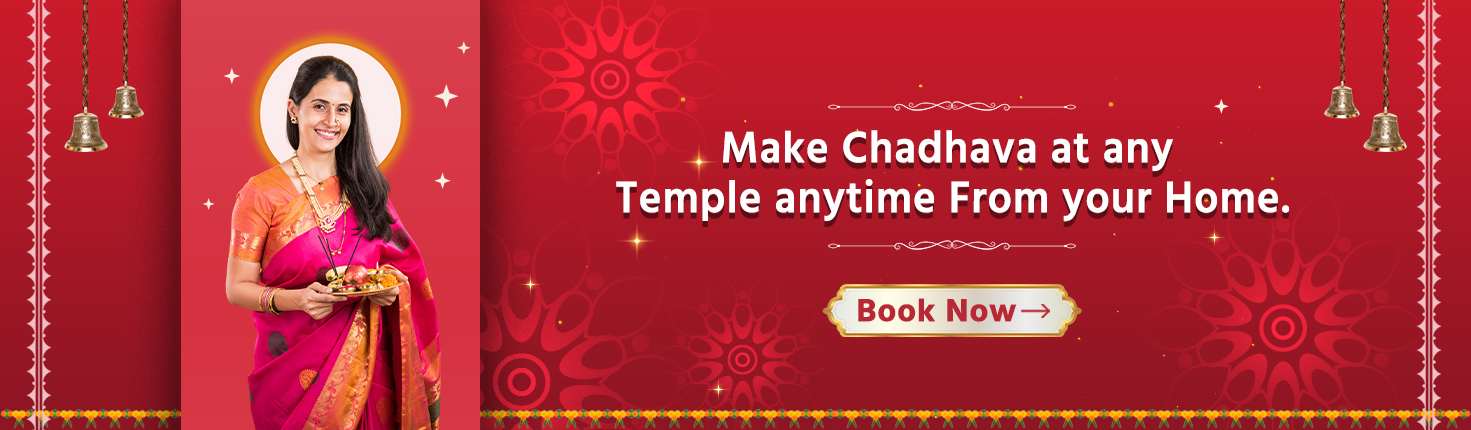
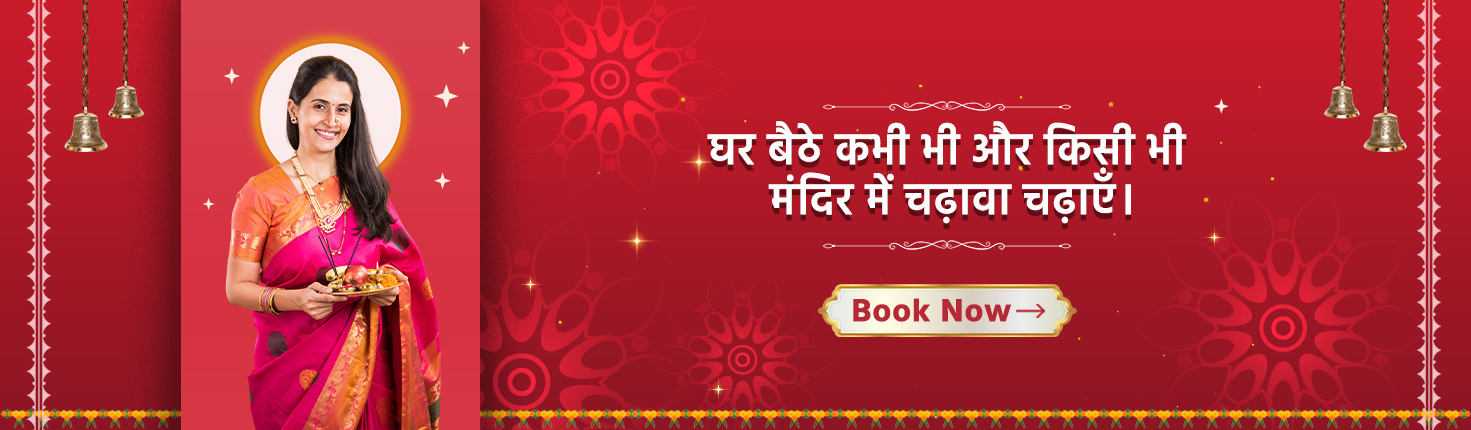
new

diff --git a/src/app/chadhavadetail/ProceedForm.js b/src/app/chadhavadetail/ProceedForm.js
@@ -4,20 +4,33 @@ import api from "../lib/axiosInstance";
 import toast, { Toaster } from "react-hot-toast";
 import { useRouter } from "next/navigation";
 import { useTranslation } from "react-i18next";
+import LoadingScreen from "../component/LoadingScreen";
 
 const ProceedForm = ({ handleClose, carts,totalPrice, id }) => {
   const { t } = useTranslation();
-  const [formData, setFormData] = useState({ name: "", gotra: "" });
+  const [formData, setFormData] = useState({ name: typeof window !== "undefined" ? localStorage.getItem("userName") || "" : "", gotra: "" });
   const [errors, setErrors] = useState({});
   const [isChecked, setIsChecked] = useState(false);
   const router = useRouter(); // Initialize useRouter
     const [loading, setLoading] = useState(false);
-  const handleChange = (e) => {
-    setFormData({ ...formData, [e.target.name]: e.target.value });
 
-    // Clear error when user types
-    setErrors({ ...errors, [e.target.name]: "" });
-  };
+
+    const handleChange = (e) => {
+      const { name, value } = e.target;
+      setFormData((prev) => {
+        const newFormData = { ...prev, [name]: value };
+    
+        // Save to localStorage
+        if (typeof window !== "undefined") {
+          localStorage.setItem(`user${name.charAt(0).toUpperCase() + name.slice(1)}`, value);
+        }
+    
+        return newFormData;
+      });
+    
+      // Clear error when user types
+      setErrors((prevErrors) => ({ ...prevErrors, [name]: "" }));
+    };
 
   const handleCheckboxChange = () => {
     setIsChecked(!isChecked);
@@ -166,6 +179,9 @@ const ProceedForm = ({ handleClose, carts,totalPrice, id }) => {
 
   return (
     <div className="fixed inset-0 bg-black bg-opacity-50 flex justify-center items-center px-4 overflow-hidden">
+{loading && (
+  <LoadingScreen/>
+)}
 
         <Toaster position="top-right" reverseOrder={false} />
     <div className="bg-orange-50 border border-orange-600 relative p-8 md:p-10 rounded-2xl shadow-lg w-full max-w-lg md:max-w-2xl">
@@ -192,6 +208,7 @@ const ProceedForm = ({ handleClose, carts,totalPrice, id }) => {
             onChange={(e) => {
               if (/^[A-Za-z\s]*$/.test(e.target.value)) {
                 setFormData({ ...formData, name: e.target.value });
+                handleChange(e); 
                 setErrors({ ...errors, name: "" });
               }
             }}
@@ -234,11 +251,30 @@ const ProceedForm = ({ handleClose, carts,totalPrice, id }) => {
         {/* Buttons */}
         <div className="flex flex-wrap justify-center gap-4">
         <button
-  className="w-full px-8 sm:px-10 py-2 text-lg bg-orange-500 text-white rounded-full"
+  className="w-full px-8 sm:px-10 py-2 text-lg bg-orange-500 text-white rounded-full flex items-center justify-center"
   onClick={onSubmit}
+  disabled={loading}
 >
-{t("SubmitPay")}
- 
+  {loading ? (
+    <svg className="animate-spin h-5 w-5 mr-2 text-white" viewBox="0 0 24 24">
+      <circle
+        className="opacity-25"
+        cx="12"
+        cy="12"
+        r="10"
+        stroke="currentColor"
+        strokeWidth="4"
+        fill="none"
+      ></circle>
+      <path
+        className="opacity-75"
+        fill="currentColor"
+        d="M4 12a8 8 0 018-8v8H4z"
+      ></path>
+    </svg>
+  ) : (
+    t("SubmitPay")
+  )}
 </button>
 
         </div>

diff --git a/src/app/cartpaymentpoojabox/Payment.js b/src/app/cartpaymentpoojabox/Payment.js
@@ -9,6 +9,7 @@ import { CheckIcon } from "lucide-react";
 import { load } from "@cashfreepayments/cashfree-js";
 import { useRouter, useSearchParams } from "next/navigation";
 import { useTranslation } from "react-i18next";
+import LoadingScreen from "../component/LoadingScreen";
 export const dynamic = "force-dynamic"; // Ensures it's rendered on the server
 const Payment = () => {
   const { t } = useTranslation();
@@ -17,6 +18,7 @@ const Payment = () => {
   const router = useRouter(); 
   const searchParams = useSearchParams();
   const addressId = searchParams.get("addressId");
+  const [loading, setLoading] = useState(false);
   useEffect(() => {
     fetchPujaData();
   }, []);
@@ -136,6 +138,7 @@ const updateCartQuantity = async (productId, change) => {
   };
   
   const handlePayment = async () => {
+    setLoading(true);
     if (!subtotal) {
       toast.error("Your cart is empty!");
       return;
@@ -234,6 +237,9 @@ const updateCartQuantity = async (productId, change) => {
       toast.error("Payment failed! Please try again.");
       router.push(`/failedcartpage`);
     }
+    finally {
+      setLoading(false);
+    }
   };
   
 
@@ -255,7 +261,9 @@ const updateCartQuantity = async (productId, change) => {
   return (
     <AuthGuard className=" bg-gray-50 ">
         <Toaster position="top-right" reverseOrder={false} />
-           
+        {loading && (
+  <LoadingScreen/>
+)}
      <div className="container">
      <h1 className="f-34 mb-2 m-5 font-semibold text-lg md:mx-10 lg:mx-20 xl:mx-40 mt-5">  {t("ShoppingCart")} </h1>
   {/* Progress Steps */}
@@ -407,13 +415,34 @@ const updateCartQuantity = async (productId, change) => {
       <span className="text-gray-600 text-lg font-semibold">{t("Total")}</span>
       <span className="text-gray-800 font-semibold text-lg">₹{Math.floor(finalTotal)}</span>
     </div>
-
     <button
-      className="w-full common-btn text-white font-semibold py-2 rounded-lg mb-2"
-      onClick={handlePayment}
-    >
-     {t("PayNow")}
-    </button>
+ className="w-full common-btn text-white font-semibold py-2 rounded-lg mb-2"
+  onClick={handlePayment}
+  disabled={loading}
+>
+  {loading ? (
+    <svg className="animate-spin h-5 w-5 mr-2 text-white" viewBox="0 0 24 24">
+      <circle
+        className="opacity-25"
+        cx="12"
+        cy="12"
+        r="10"
+        stroke="currentColor"
+        strokeWidth="4"
+        fill="none"
+      ></circle>
+      <path
+        className="opacity-75"
+        fill="currentColor"
+        d="M4 12a8 8 0 018-8v8H4z"
+      ></path>
+    </svg>
+  ) : (
+    t("PayNow")
+  )}
+</button>
+
+  
   </div>
 </div>
 

diff --git a/src/app/poojabookingcart/Payment.js b/src/app/poojabookingcart/Payment.js
@@ -7,7 +7,7 @@ import api from "../lib/axiosInstance";
 import Testimonials from "../poojadetail/Testimonials";
 import { CheckIcon } from "lucide-react";
 import { useTranslation } from "react-i18next";
-
+import Loader from "../component/LoadingScreen.js"
 const Payment = () => {
   const { t } = useTranslation();
   const [data, setData] = useState(null);
@@ -133,10 +133,6 @@ const Payment = () => {
   };
 
 
-
-
-
-
   if (redirected) {
     return (
       <div className="text-center items-center py-60">
@@ -154,6 +150,10 @@ const Payment = () => {
 
   return (
     <AuthGuard>
+      {loading && (
+ <Loader/>
+)}
+
       <h1 className=" f-34 mb-4 font-semibold text-lg text-black ">  {t("ShoppingCart")} </h1>
       <div className="flex  flex-col md:flex-row items-center bg-orange-100 rounded-2xl justify-center p-8 md:p-30 mb-4">
         <div className="flex items-center mb-4 md:mb-0">
@@ -244,12 +244,23 @@ const Payment = () => {
                   <dd className="text-xl font-bold text-gray-900">₹{Math.floor(datapackage?.price) || "0"}/-</dd>
                 </dl>
                 <button
-                  onClick={initiatePayment}
-                  disabled={loading}
-                  className="w-full common-btn text-white font-semibold py-2 mt-5 rounded-lg bg-orange-500"
-                >
-                  {loading ? `${t("Checkout")}`   : `${t("PayNow")}`}
-                </button>
+  onClick={initiatePayment}
+  disabled={loading}
+  className="w-full flex justify-center items-center common-btn text-white font-semibold py-2 mt-5 rounded-lg bg-orange-500"
+>
+  {loading ? (
+    <>
+      <svg
+        className="animate-spin h-5 w-5 mr-2 border-t-2 border-white rounded-full"
+        viewBox="0 0 24 24"
+      ></svg>
+      {t("Checkout")}
+    </>
+  ) : (
+    t("PayNow")
+  )}
+</button>
+
               </div>
             </div>
           </div>

diff --git a/src/app/contact/Contactpage.js b/src/app/contact/Contactpage.js
@@ -132,11 +132,12 @@ export default function ContactPage() {
 							<path d="M16 0c-4.349 0-4.891 0.021-6.593 0.093-1.709 0.084-2.865 0.349-3.885 0.745-1.052 0.412-1.948 0.959-2.833 1.849-0.891 0.885-1.443 1.781-1.849 2.833-0.396 1.020-0.661 2.176-0.745 3.885-0.077 1.703-0.093 2.244-0.093 6.593s0.021 4.891 0.093 6.593c0.084 1.704 0.349 2.865 0.745 3.885 0.412 1.052 0.959 1.948 1.849 2.833 0.885 0.891 1.781 1.443 2.833 1.849 1.020 0.391 2.181 0.661 3.885 0.745 1.703 0.077 2.244 0.093 6.593 0.093s4.891-0.021 6.593-0.093c1.704-0.084 2.865-0.355 3.885-0.745 1.052-0.412 1.948-0.959 2.833-1.849 0.891-0.885 1.443-1.776 1.849-2.833 0.391-1.020 0.661-2.181 0.745-3.885 0.077-1.703 0.093-2.244 0.093-6.593s-0.021-4.891-0.093-6.593c-0.084-1.704-0.355-2.871-0.745-3.885-0.412-1.052-0.959-1.948-1.849-2.833-0.885-0.891-1.776-1.443-2.833-1.849-1.020-0.396-2.181-0.661-3.885-0.745-1.703-0.077-2.244-0.093-6.593-0.093zM16 2.88c4.271 0 4.781 0.021 6.469 0.093 1.557 0.073 2.405 0.333 2.968 0.553 0.751 0.291 1.276 0.635 1.844 1.197 0.557 0.557 0.901 1.088 1.192 1.839 0.22 0.563 0.48 1.411 0.553 2.968 0.072 1.688 0.093 2.199 0.093 6.469s-0.021 4.781-0.099 6.469c-0.084 1.557-0.344 2.405-0.563 2.968-0.303 0.751-0.641 1.276-1.199 1.844-0.563 0.557-1.099 0.901-1.844 1.192-0.556 0.22-1.416 0.48-2.979 0.553-1.697 0.072-2.197 0.093-6.479 0.093s-4.781-0.021-6.48-0.099c-1.557-0.084-2.416-0.344-2.979-0.563-0.76-0.303-1.281-0.641-1.839-1.199-0.563-0.563-0.921-1.099-1.197-1.844-0.224-0.556-0.48-1.416-0.563-2.979-0.057-1.677-0.084-2.197-0.084-6.459 0-4.26 0.027-4.781 0.084-6.479 0.083-1.563 0.339-2.421 0.563-2.979 0.276-0.761 0.635-1.281 1.197-1.844 0.557-0.557 1.079-0.917 1.839-1.199 0.563-0.219 1.401-0.479 2.964-0.557 1.697-0.061 2.197-0.083 6.473-0.083zM16 7.787c-4.541 0-8.213 3.677-8.213 8.213 0 4.541 3.677 8.213 8.213 8.213 4.541 0 8.213-3.677 8.213-8.213 0-4.541-3.677-8.213-8.213-8.213zM16 21.333c-2.948 0-5.333-2.385-5.333-5.333s2.385-5.333 5.333-5.333c2.948 0 5.333 2.385 5.333 5.333s-2.385 5.333-5.333 5.333zM26.464 7.459c0 1.063-0.865 1.921-1.923 1.921-1.063 0-1.921-0.859-1.921-1.921 0-1.057 0.864-1.917 1.921-1.917s1.923 0.86 1.923 1.917z"></path>
 						</svg>
 					</a>
-                    <a rel="noopener noreferrer" target="_blank"  href={pujaData?.social_links?.discord} title="Discord" className="flex items-center p-1">
-                    <svg xmlns="http://www.w3.org/2000/svg" width="16" height="16" fill="currentColor" className="bi bi-discord w-6  h-6" viewBox="0 0 16 16">
-  <path d="M13.545 2.907a13.2 13.2 0 0 0-3.257-1.011.05.05 0 0 0-.052.025c-.141.25-.297.577-.406.833a12.2 12.2 0 0 0-3.658 0 8 8 0 0 0-.412-.833.05.05 0 0 0-.052-.025c-1.125.194-2.22.534-3.257 1.011a.04.04 0 0 0-.021.018C.356 6.024-.213 9.047.066 12.032q.003.022.021.037a13.3 13.3 0 0 0 3.995 2.02.05.05 0 0 0 .056-.019q.463-.63.818-1.329a.05.05 0 0 0-.01-.059l-.018-.011a9 9 0 0 1-1.248-.595.05.05 0 0 1-.02-.066l.015-.019q.127-.095.248-.195a.05.05 0 0 1 .051-.007c2.619 1.196 5.454 1.196 8.041 0a.05.05 0 0 1 .053.007q.121.1.248.195a.05.05 0 0 1-.004.085 8 8 0 0 1-1.249.594.05.05 0 0 0-.03.03.05.05 0 0 0 .003.041c.24.465.515.909.817 1.329a.05.05 0 0 0 .056.019 13.2 13.2 0 0 0 4.001-2.02.05.05 0 0 0 .021-.037c.334-3.451-.559-6.449-2.366-9.106a.03.03 0 0 0-.02-.019m-8.198 7.307c-.789 0-1.438-.724-1.438-1.612s.637-1.613 1.438-1.613c.807 0 1.45.73 1.438 1.613 0 .888-.637 1.612-1.438 1.612m5.316 0c-.788 0-1.438-.724-1.438-1.612s.637-1.613 1.438-1.613c.807 0 1.451.73 1.438 1.613 0 .888-.631 1.612-1.438 1.612"/>
-</svg>
-					</a>
+                 <a
+									rel="noopener noreferrer" href={pujaData?.social_links.facebook} title="Facebook" className="flex items-center p-1 ref"  target="_blank">
+									<svg xmlns="http://www.w3.org/2000/svg" fill="currentColor" viewBox="0 0 32 32" className="w-6 h-6 fill-current ">
+										<path d="M32 16c0-8.839-7.167-16-16-16-8.839 0-16 7.161-16 16 0 7.984 5.849 14.604 13.5 15.803v-11.177h-4.063v-4.625h4.063v-3.527c0-4.009 2.385-6.223 6.041-6.223 1.751 0 3.584 0.312 3.584 0.312v3.937h-2.021c-1.984 0-2.604 1.235-2.604 2.5v3h4.437l-0.713 4.625h-3.724v11.177c7.645-1.199 13.5-7.819 13.5-15.803z"></path>
+									</svg>
+								</a>
         </div>
           </div>
 